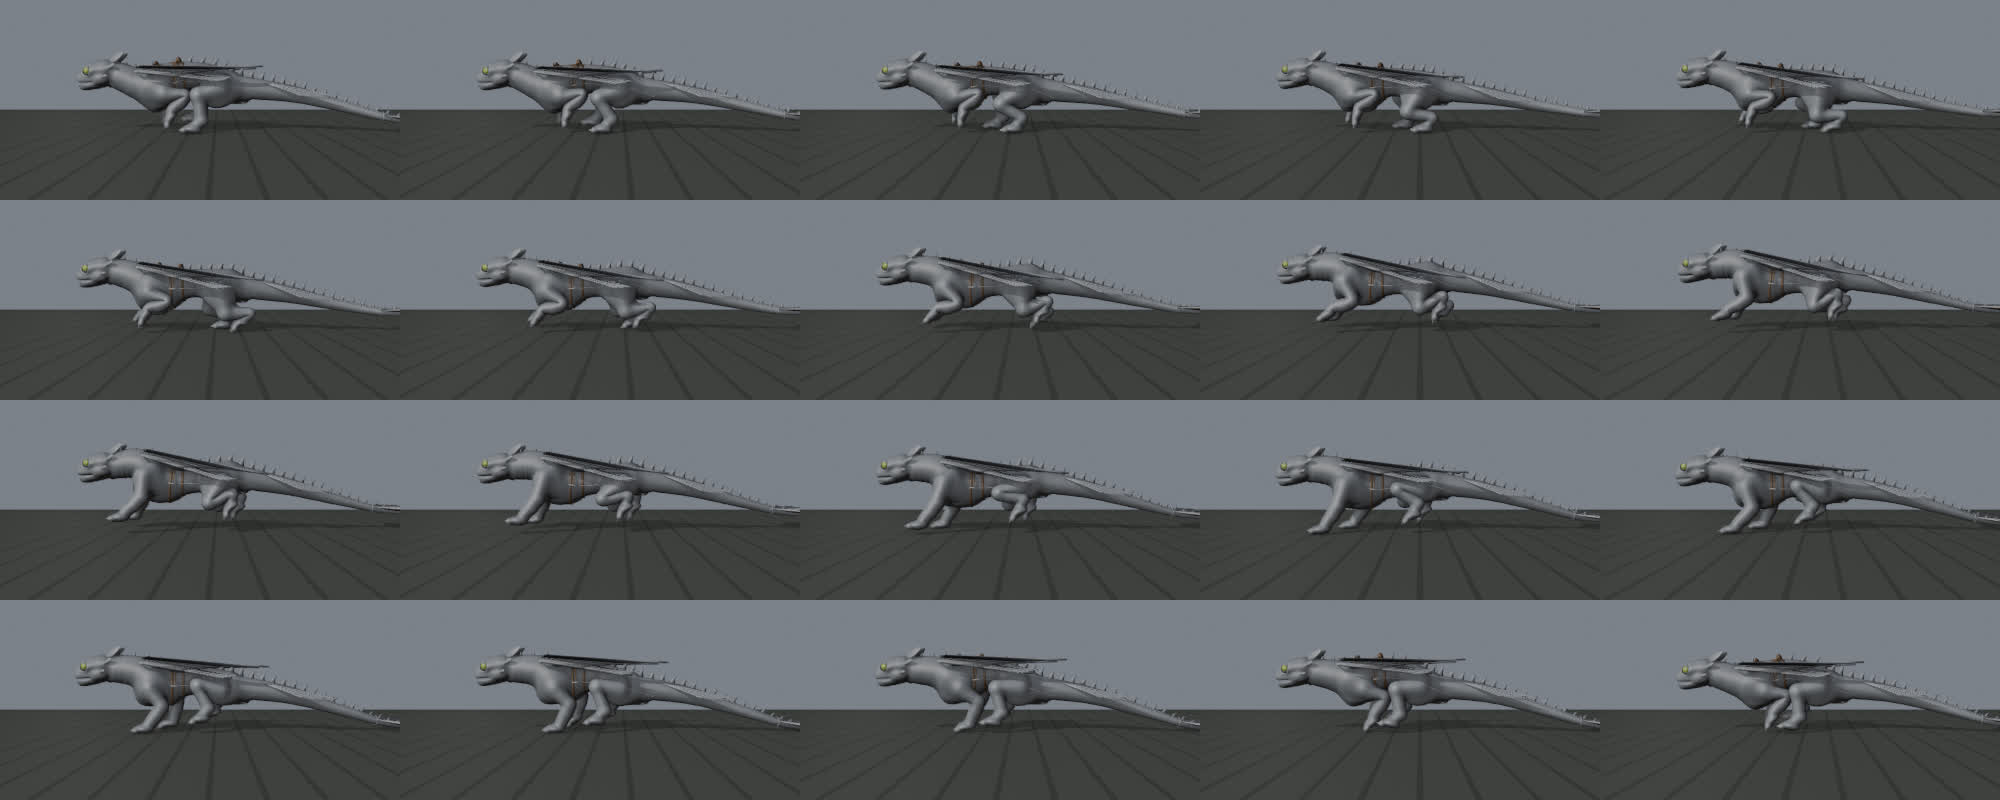
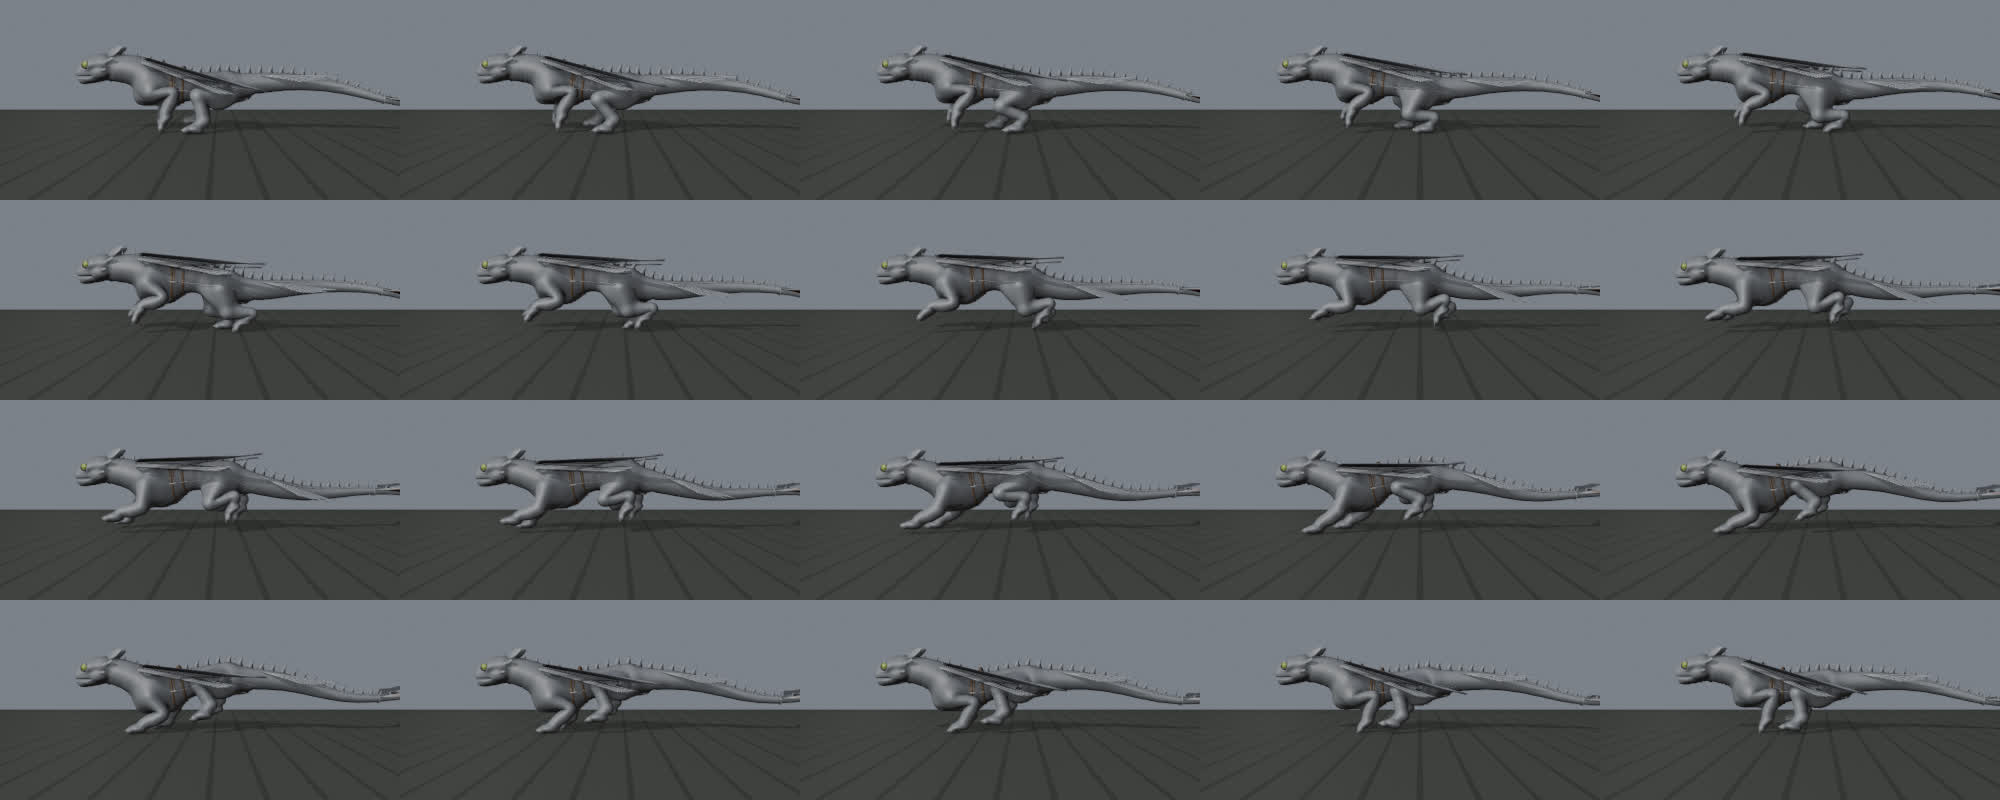
feat(loco): gallop body follows one travelling line through the air
The gallop's spine and tail no longer have separate bob / pitch / flex keys:
one keyed line (height offset under the neck base over the stride) stands
still in the world while the body runs through it, and every spine and tail
joint passes through the same heights later, delayed by its distance behind /
the stride length (_line, _path_body). The pelvis sets the root, each later
bone hinges to aim at its tail joint's target, keeping its roll / yaw sway.
With a 4 m stride the hips meet the shoulders' dip ~0.35 of a stride later,
just as the hinds plant, so the hind paws land where the fores did.

- the neck counters the chest's tilt; the folded wings hold their bind angle to
  the horizon (measured on the posed rig) so the bundle rides flat.
- swinging paws follow half of the line's rise (follow), the front swing lift
  peaks later (skew), front stance moved forward: all hinges inside
  anatomy.LIMBS, stance toe miss < 1 mm. Walk and trot unchanged.

Claude-Session: https://claude.ai/code/session_01GjYwpcVsN48k68Do6J5W4b

diff --git a/pipeline/blender/toothless/locomotion.py b/pipeline/blender/toothless/locomotion.py
@@ -69,20 +69,18 @@ TROT = {
 # counterbalances.
 GALLOP = {
     "frames": 20, "speed": 6.0, "duty": 0.24, "offsets": (0.0, 0.65, 0.1, 0.55),
-    "front": {"centre": -0.93, "lift": 0.2, "land": 0.35, "peel": 0.2,
-              "distal": _keys(0.24, [(0, 40), (0.5, 50), (0.85, 52)], [(0, 25), (0.28, 2), (0.6, 20), (0.85, 44)]),
+    "front": {"centre": -1.04, "lift": 0.2, "skew": 1.5, "land": 0.35, "peel": 0.2,
+              "distal": _keys(0.24, [(0, 40), (0.5, 50), (0.85, 52)], [(0, 25), (0.28, 6), (0.6, 30), (0.85, 46)]),
               "toes": _keys(0.24, [(0, 79), (0.7, 79)], [(0, 40), (0.3, 10), (0.7, 62), (0.88, 86)]),
-              "scapula": _keys(0.24, [(0, 20), (0.5, 0)], [(0, -21), (0.5, 8), (0.85, 21)])},
-    "hind": {"centre": 0.39, "lift": 0.22, "land": 0.3, "peel": 0.3,
+              "scapula": _keys(0.24, [(0, 20), (0.5, 0)], [(0, -12), (0.4, 10), (0.85, 21)])},
+    "hind": {"centre": 0.43, "lift": 0.22, "land": 0.3, "peel": 0.3,
              "distal": _keys(0.24, [(0, 48), (0.5, 38), (0.88, 44)], [(0, 52), (0.3, 10), (0.62, 34), (0.875, 50)]),
              "toes": _keys(0.24, [(0, 79), (0.68, 79)], [(0, 36), (0.3, 18), (0.69, 66), (0.875, 85)])},
-    "body": {"height": 0.91, "lean": -0.045, "smooth": 3,
-             "bob": [(0.0, -0.02), (0.17, -0.07), (0.3, -0.01), (0.45, 0.11), (0.58, 0.04), (0.72, -0.05),
-                     (0.85, -0.01), (0.94, 0.04)],
-             "pitch": [(0.0, 0.0), (0.2, 0.07), (0.38, 0.08), (0.55, 0.02), (0.72, -0.05), (0.9, -0.04)],
-             "spine": [(0.0, 0.6), (0.2, 0.1), (0.42, -0.4), (0.55, -0.3), (0.72, 0.15), (0.93, 0.85)],
-             "roll": 0.012, "flex": 0.02, "tail": 0.06, "tailLift": 0.02, "tailWave": 0.05,
-             "neckDrop": 0.07, "tailCarry": (-0.035, 0.06), "headLevel": 0.3},
+    "body": {"height": 0.91, "lean": -0.045, "smooth": 2, "bob": (0.0, 1, 0.0), "pitch": (0.0, 1, 0.0),
+             # the line through the sky: its height offset (m) under the neck base over the stride. Every spine and
+             # tail joint passes through the same heights later, delayed by its distance behind / the stride length.
+             "path": [(0.0, 0.06), (0.22, 0.12), (0.47, 0.02), (0.72, -0.1), (0.9, -0.02)],
+             "roll": 0.012, "flex": 0.02, "tail": 0.06, "tailLift": 0.0, "neckDrop": 0.07, "headLevel": 0.3, "follow": 0.5},
 }
 CYCLES = {"walk": WALK, "trot": TROT, "gallop": GALLOP}
 
@@ -149,10 +147,23 @@ def _seg(kind, a, b):
     return (Vector((r[b][1], r[b][2])) - Vector((r[a][1], r[a][2]))).length
 
 
-def _rise(cyc, t):
-    """Body height above its baseline at cycle phase t (keyed bobs only; a sine bob is small and left out)."""
-    bob = cyc["body"]["bob"]
-    return _chan(cyc["body"], "bob", t) if isinstance(bob, list) else 0.0
+def _rise(cyc, t, kind):
+    """How far the body above leg `kind` has risen over its baseline at cycle phase t (a keyed bob, or the travelling
+    line at the shoulder / hip; a sine bob is small and left out)."""
+    b = cyc["body"]
+    if "path" in b:
+        return _line(cyc, t, REST[kind]["shoulder" if kind == "front" else "hip"][1])
+    return _chan(b, "bob", t) if isinstance(b["bob"], list) else 0.0
+
+
+LEAD_Y = A.NECK[0][1][1]          # the neck base: the body line's leading point
+
+
+def _line(cyc, t, y):
+    """The travelling line's height offset at rest-y `y` (m, +Y behind) and cycle phase t: what the neck base had
+    (y - LEAD_Y) / stride of a cycle earlier. The wave stands still in the world while the body runs through it."""
+    stride = cyc["speed"] * cyc["frames"] / FPS
+    return _chan(cyc["body"], "path", t - (y - LEAD_Y) / stride)
 
 
 def leg_targets(cyc, kind, p, off=0.0):
@@ -177,10 +188,10 @@ def leg_targets(cyc, kind, p, off=0.0):
     paw_td = Vector((td, z0)) - lt * _dir(_pchip(c["toes"], 0.0))
     v = cyc["speed"] * T * (1.0 - duty)                 # ground speed in swing-phase units
     y = _hermite(paw_lo.x, paw_td.x, c["peel"] * v, c["land"] * v, w)      # 2-D vectors: .x = y, .y = z
-    z = paw_lo.y + (paw_td.y - paw_lo.y) * w + c["lift"] * math.sin(math.pi * w ** 0.8)
+    z = paw_lo.y + (paw_td.y - paw_lo.y) * w + c["lift"] * math.sin(math.pi * w ** c.get("skew", 0.8))   # skew > 1: the peak comes later
     t_lo, t_td = (off + duty) % 1.0, off % 1.0
-    base = _rise(cyc, t_lo) + (_rise(cyc, t_td) - _rise(cyc, t_lo)) * w
-    z += max(0.0, _rise(cyc, (off + p) % 1.0) - base)
+    base = _rise(cyc, t_lo, kind) + (_rise(cyc, t_td, kind) - _rise(cyc, t_lo, kind)) * w
+    z += cyc["body"].get("follow", 1.0) * max(0.0, _rise(cyc, (off + p) % 1.0, kind) - base)
     paw = Vector((y, z))
     return paw + lt * _dir(toes), distal, toes
 
@@ -342,6 +353,8 @@ def cycle_frames(rig, name):
             root, bones, _ = body_bones(cyc, f / n)
             R.reset_pose(rig)
             _place(rig, root, bones)
+            if "path" in cyc["body"]:
+                _path_body(rig, cyc, f / n, bones)
             raw.append(rig.pose.bones["head"].head.z)
         mean = sum(raw) / n
     for f in range(n + 1):
@@ -349,6 +362,8 @@ def cycle_frames(rig, name):
         root, bones, wing_lift = body_bones(cyc, t)
         R.reset_pose(rig)
         _place(rig, root, bones)
+        if "path" in cyc["body"]:
+            root, wing_lift = _path_body(rig, cyc, t, bones)
         if keep is not None:
             _level_head(rig, bones, mean + keep * (raw[f % n] - mean))
         for key, off in zip(LEGS, cyc["offsets"]):
@@ -366,6 +381,82 @@ def cycle_frames(rig, name):
                 r["range"][bn] = (min(lo, math.degrees(e[0])), max(hi, math.degrees(e[0])))
         frames.append({"root": root, "wings": (1.0, wing_lift, 0.0), "bones": bones})
     return frames, report
+
+
+BODY_LINE = ("pelvis", "spine_01", "spine_02", "spine_03", "chest") + tuple(f"tail_{k:02d}" for k in range(1, 13))
+
+
+def _path_body(rig, cyc, t, bones):
+    """Lay the spine and tail along the travelling line: each joint's target height is its rest height, crouched by
+    body height and tilted by lean about the hips, plus the line's offset at its own y. The pelvis sets the root
+    (height, pitch); every later bone hinges about its local X to aim at its tail joint's target, keeping the
+    roll / yaw sway body_bones gave it. The neck and the folded wings counter the chest's tilt. Returns the root and
+    the wing lift."""
+    import library as LIB
+    b = cyc["body"]
+    data = rig.data.bones
+    pelvis_rest = data["pelvis"].head_local
+
+    def target(p):
+        return (p.z + (b["height"] - pelvis_rest.z) + b["lean"] * (pelvis_rest.y - p.y) + _line(cyc, t, p.y))
+    zp = target(pelvis_rest)
+    nxt = data["pelvis"].tail_local
+    run = pelvis_rest.y - nxt.y
+    pitch = math.atan2(target(nxt) - zp, run) - math.atan2(nxt.z - pelvis_rest.z, run)
+    LIB.place_root(rig, zp, pitch)
+    bones["pelvis"] = (pitch, bones["pelvis"][1], bones["pelvis"][2])
+    rig.pose.bones["pelvis"].rotation_euler = bones["pelvis"]
+    bpy.context.view_layer.update()
+    for n in BODY_LINE[1:]:
+        tail = data[n].tail_local
+        pb = rig.pose.bones[n]
+        aim = Vector((tail.y, target(tail))) - _yz(pb.head)
+        theta = _hinge(rig, n, aim.normalized())
+        bones[n] = (theta, bones[n][1], bones[n][2])
+        pb.rotation_euler = bones[n]
+        bpy.context.view_layer.update()
+    rest = data["chest"].tail_local - data["chest"].head_local
+    cur = rig.pose.bones["chest"].tail - rig.pose.bones["chest"].head
+    chest = math.atan2(cur.z, -cur.y) - math.atan2(rest.z, -rest.y)       # + = the chest tipped nose up
+    drop = b.get("neckDrop", 0.0)
+    for n in ("neck_01", "neck_02", "neck_03", "neck_04"):
+        bones[n] = (-0.225 * chest - drop, bones[n][1], bones[n][2])
+    bones["head"] = (-0.1 * chest + 3.5 * drop, bones["head"][1], bones["head"][2])
+    for n in ("neck_01", "neck_02", "neck_03", "neck_04", "head"):
+        rig.pose.bones[n].rotation_euler = bones[n]
+    bpy.context.view_layer.update()
+    lift = _wing_lift(rig)
+    return (zp, pitch), lift
+
+
+_WING_REST = []
+
+
+def _wing_elev(rig):
+    """Folded wing humerus elevation going back (degrees) on the current pose, and the loins -> chest line's."""
+    import library as LIB
+    LIB.apply_wings(rig, 1.0, 0.0, 0.0)
+    bpy.context.view_layer.update()
+    w = rig.pose.bones["wing_humerus_L"]
+    a, c = rig.pose.bones["spine_01"].head, rig.pose.bones["chest"].head
+    d = w.tail - w.head
+    return math.degrees(math.atan2(d.z, d.y)), math.degrees(math.atan2(a.z - c.z, a.y - c.y))
+
+
+def _wing_lift(rig):
+    """The lift (rad) that holds the folded wings at their bind angle to the horizon however the chest tips: the
+    travelling line keeps the body's mean line level, so the bundle rides flat while the back flows under it
+    (measured on the posed rig, not estimated)."""
+    if not _WING_REST:
+        saved = {pb.name: pb.matrix_basis.copy() for pb in rig.pose.bones}
+        import rig as R
+        R.reset_pose(rig)
+        _WING_REST.append(_wing_elev(rig)[0])
+        for pb in rig.pose.bones:
+            pb.matrix_basis = saved[pb.name]
+        bpy.context.view_layer.update()
+    w = _wing_elev(rig)[0]
+    return max(-0.25, min(0.25, math.radians(_WING_REST[0] - w)))
 
 
 def _level_head(rig, bones, target):
